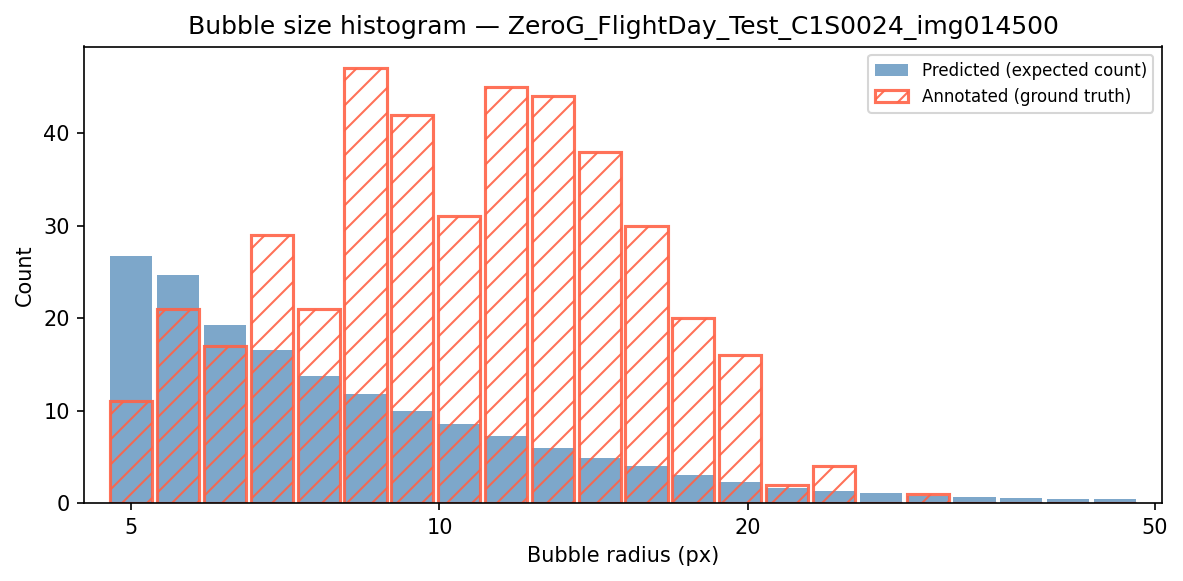
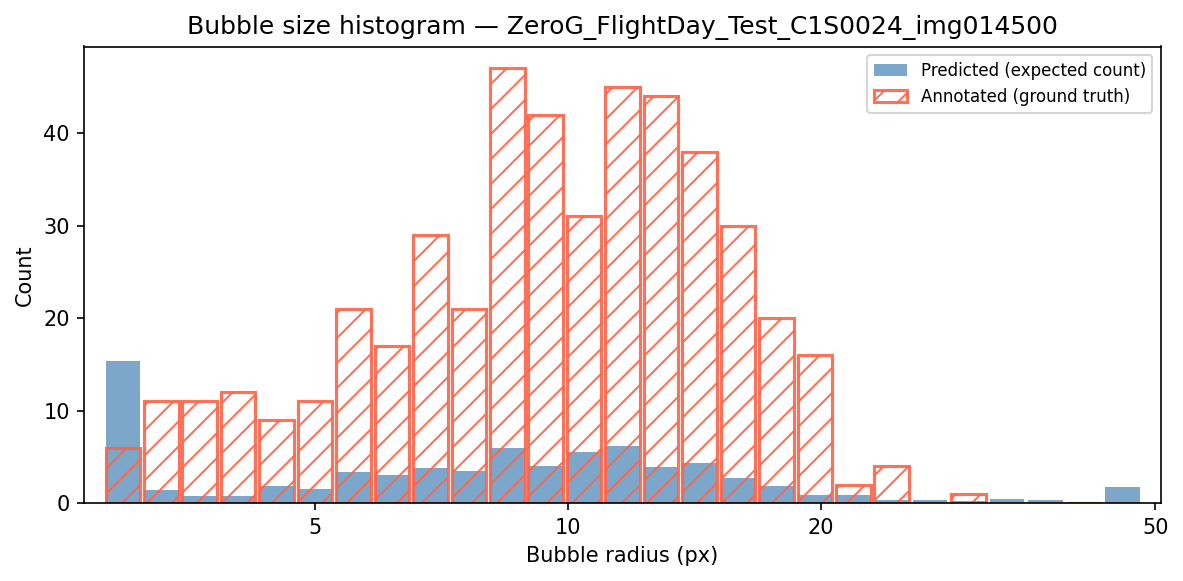
fix: per-level calibration, scale-aware labeling, and template normalization
Replace global ScoreCalibrator with one calibrator per pyramid level.
Label NMS survivors as positive only when they land at the correct
pyramid level for the GT bubble's radius, preventing fine-scale edge
artifacts from stealing GT annotation slots during training.

Fix template normalization: sum-norm collapsed every pixel to ~1/169,
making the averaged template nearly constant. Replace with zero-mean
+ L2-norm to preserve the dark-center / bright-surround contrast structure.

Add per-level NMS cap (nms_max_candidates_per_level=1000) to prevent
fine-scale levels from monopolizing the NMS candidate budget. Optimize
NMS inner loop to scan only remaining candidates (i+1: slice) instead
of all n, halving the work on average.

relL1 on calibration image: 1.024 → 0.950. Training time: ~46s.

diff --git a/bubble_histogram/pipeline.py b/bubble_histogram/pipeline.py
@@ -28,7 +28,8 @@ class BubblePipeline:
     def __init__(self, config: PipelineConfig):
         self.config = config
         self.templates: np.ndarray | None = None        # shape (n_bins, template_size, template_size)
-        self.calibrator: ScoreCalibrator | None = None  # maps NCC score → P(bubble)
+        self.calibrator: ScoreCalibrator | None = None  # maps NCC score → P(bubble); used when local_maxima_calibration=False
+        self.calibrators: dict[int, ScoreCalibrator] | None = None  # per-level calibrators; used when local_maxima_calibration=True
         self._split_info: dict | None = None            # saved for the *_split.json artifact
         self._pos_scores: np.ndarray | None = None      # saved for the *_score_histograms.png artifact
         self._neg_scores: np.ndarray | None = None
@@ -39,28 +40,95 @@ class BubblePipeline:
         self.templates = build_templates(dataset, self.config,
                                          image_paths=dataset.template_images)
 
-        # sample NCC scores from the calibration split (separate from template images)
+        if self.config.local_maxima_calibration:
+            self._train_per_level(dataset)
+        else:
+            self._train_global(dataset)
+
+    def _train_per_level(self, dataset: AnnotatedDataset) -> None:
+        """
+        Per-level calibration with scale-aware positive labeling.
+
+        A survivor is labeled positive only if it is both spatially close to an
+        annotation (dist < bubble.radius) AND at the correct pyramid level for that
+        annotation (argmin |eff_radius - bubble.radius|).  This prevents edge
+        artifacts from fine scales (which score higher than correct-scale center
+        detections) from consuming GT slots in the greedy matcher and being labeled
+        positive.  Each level then has its own prior and calibrator, so level 0
+        (almost zero true positives) gets P(bubble) ≈ 0 while the correct-scale
+        levels get a realistic prior.
+        """
+        level_pos: dict[int, list[float]] = defaultdict(list)
+        level_neg: dict[int, list[float]] = defaultdict(list)
+        n_levels = 0  # determined from ncc_results after first image
+
+        for image_path in dataset.calibration_images:
+            sample = dataset.load_sample(image_path)
+            ncc_results = compute_ncc_maps(sample.image, self.templates, self.config)
+            if not ncc_results:
+                continue
+            n_levels = max(n_levels, len(ncc_results))
+            eff_radii = np.array([er for er, _ in ncc_results])
+            survivors = nms_3d(ncc_results, self.config)
+
+            gt = [(b.cy, b.cx, b.radius) for b in sample.bubbles]
+            # correct pyramid level for each GT bubble
+            gt_levels = [int(np.argmin(np.abs(eff_radii - r))) for _, _, r in gt]
+            matched_gt: set[int] = set()
+
+            for score, level_idx, y, x, _ in survivors:
+                best_i, best_d = -1, float("inf")
+                for i, (cy, cx, r) in enumerate(gt):
+                    if i in matched_gt:
+                        continue
+                    d = math.sqrt((y - cy) ** 2 + (x - cx) ** 2)
+                    # scale-aware: only count as positive at the correct pyramid level
+                    if d < r and level_idx == gt_levels[i] and d < best_d:
+                        best_d, best_i = d, i
+                if best_i >= 0:
+                    matched_gt.add(best_i)
+                    level_pos[level_idx].append(score)
+                else:
+                    level_neg[level_idx].append(score)
+
+        # Flatten for the score-histogram artifact
+        all_pos = np.array([s for ss in level_pos.values() for s in ss], dtype=np.float32)
+        all_neg = np.array([s for ss in level_neg.values() for s in ss], dtype=np.float32)
+        self._pos_scores, self._neg_scores = all_pos, all_neg
+
+        # Fit one calibrator per level.  Use fewer bins than the global calibrator
+        # because per-level positive counts can be very small (O(tens) per level).
+        bins_per_level = max(10, self.config.n_score_bins // 3)
+        self.calibrators = {}
+        for lv in range(n_levels):
+            p = np.array(level_pos.get(lv, []), dtype=np.float32)
+            n = np.array(level_neg.get(lv, []), dtype=np.float32)
+            prior = len(p) / max(len(p) + len(n), 1)
+            cal = ScoreCalibrator(n_bins=bins_per_level)
+            cal.fit(p, n, prior)
+            self.calibrators[lv] = cal
+
+        # Keep a global calibrator fitted for backwards compat (test assertions, score histogram)
+        global_prior = len(all_pos) / max(len(all_pos) + len(all_neg), 1)
+        self.calibrator = ScoreCalibrator(n_bins=self.config.n_score_bins)
+        self.calibrator.fit(all_pos, all_neg, global_prior)
+
+    def _train_global(self, dataset: AnnotatedDataset) -> None:
+        """Global calibration (local_maxima_calibration=False): centroid-based positives + random pixel negatives."""
         pos_scores, neg_scores = sample_scores(dataset, self.templates, self.config,
                                                image_paths=dataset.calibration_images)
         self._pos_scores = pos_scores
         self._neg_scores = neg_scores
 
-        # estimate the prior: P(bubble) at a candidate location
-        if self.config.local_maxima_calibration:
-            # sample_scores labeled every NMS survivor pos or neg;
-            # prior = P(bubble | at NMS survivor) = n_pos / (n_pos + n_neg)
-            # No extra NCC passes needed — derived directly from training counts.
-            prior = len(pos_scores) / max(len(pos_scores) + len(neg_scores), 1)
-        else:
-            # default: prior = n_bubbles / n_pixels (fraction of pixel locations that are bubbles)
-            total_bubbles = sum(len(dataset.load_sample(p).bubbles)
-                                for p in dataset.calibration_images)
-            total_pixels = sum(int(np.prod(dataset.load_sample(p).image.shape))
-                               for p in dataset.calibration_images)
-            prior = total_bubbles / max(total_pixels, 1)
+        total_bubbles = sum(len(dataset.load_sample(p).bubbles)
+                            for p in dataset.calibration_images)
+        total_pixels = sum(int(np.prod(dataset.load_sample(p).image.shape))
+                           for p in dataset.calibration_images)
+        prior = total_bubbles / max(total_pixels, 1)
 
         self.calibrator = ScoreCalibrator(n_bins=self.config.n_score_bins)
         self.calibrator.fit(pos_scores, neg_scores, prior)
+        self.calibrators = None
 
     def predict(self, image: np.ndarray, ncc_results: list | None = None) -> dict[str, list[float]]:
         """
@@ -81,7 +149,7 @@ class BubblePipeline:
         radius_px = []
         expected_counts = []
 
-        from bubble_histogram.calibration import nms_3d, _local_maxima
+        from bubble_histogram.calibration import _local_maxima
         min_d = 2   # minimum pixel distance between local maxima; small because NCC response is smooth
 
         use_lm = self.config.predict_local_maxima or self.config.local_maxima_calibration
@@ -92,8 +160,13 @@ class BubblePipeline:
             # This prevents the same bubble from being counted at multiple scale levels.
             survivors = nms_3d(ncc_results, self.config)
             level_probs: dict[int, float] = {i: 0.0 for i in range(len(ncc_results))}
+            use_per_level = self.calibrators is not None
             for score, level_idx, _y, _x, _r in survivors:
-                prob = float(self.calibrator.predict(np.array([score], dtype=np.float32))[0])
+                if use_per_level:
+                    cal = self.calibrators.get(level_idx)
+                    prob = float(cal.predict(np.array([score], dtype=np.float32))[0]) if cal is not None else 0.0
+                else:
+                    prob = float(self.calibrator.predict(np.array([score], dtype=np.float32))[0])
                 level_probs[level_idx] += prob
             for i, (eff_radius, _) in enumerate(ncc_results):
                 expected_counts.append(level_probs[i])
@@ -120,9 +193,9 @@ class BubblePipeline:
     ) -> None:
         path = Path(path)
         with open(path, "wb") as f:
-            # only the three objects needed to run predict() are pickled; diagnostic data is separate
             pickle.dump({"config": self.config, "templates": self.templates,
-                         "calibrator": self.calibrator}, f)
+                         "calibrator": self.calibrator,
+                         "calibrators": self.calibrators}, f)
 
         # Always save templates PNG
         self._save_templates_png(path.with_name(path.stem + "_templates.png"))
@@ -376,4 +449,5 @@ class BubblePipeline:
         pipeline = cls(data["config"])      # reconstruct with the config that was used during training
         pipeline.templates = data["templates"]
         pipeline.calibrator = data["calibrator"]
+        pipeline.calibrators = data.get("calibrators")  # None for pipelines saved before per-level calibration
         return pipeline

diff --git a/bubble_histogram/calibration.py b/bubble_histogram/calibration.py
@@ -177,10 +177,23 @@ def nms_3d(
     if not chunks:
         return []
 
+    # Per-level cap: keep only the top-K peaks within each level before pooling.
+    # Prevents fine-scale levels (which generate many high-scoring edge artifacts)
+    # from monopolising the global nms_max_candidates budget and crowding out
+    # legitimate coarse-scale detections.
+    per_k = getattr(config, "nms_max_candidates_per_level", 0)
+    if per_k > 0:
+        capped: list[np.ndarray] = []
+        for chunk in chunks:
+            if len(chunk) > per_k:
+                top_idx = np.argpartition(chunk[:, 0], -per_k)[-per_k:]
+                capped.append(chunk[top_idx])
+            else:
+                capped.append(chunk)
+        chunks = capped
+
     cands_arr = np.vstack(chunks)                        # (total_candidates, 5)
-    # Sort by score descending and apply top-K cap.
-    # All true bubbles score highly so top-K never drops true positives;
-    # it bounds NMS runtime to O(K²) regardless of image content.
+    # Sort by score descending and apply global top-K cap.
     order = np.argsort(cands_arr[:, 0])[::-1]
     max_k = getattr(config, "nms_max_candidates", 10000)
     order = order[:max_k]
@@ -205,11 +218,12 @@ def nms_3d(
             continue
         kept.append((sc[i], lv[i], cy[i], cx[i], cr[i]))
 
-        # Vectorized IoU against all later unsuppressed candidates
-        rest = np.where(~suppressed)[0]
-        rest = rest[rest > i]
-        if len(rest) == 0:
+        # Vectorized IoU against all later unsuppressed candidates.
+        # Only scan suppressed[i+1:] (half the work on average vs scanning all n).
+        rest_offset = np.nonzero(~suppressed[i + 1:])[0]
+        if len(rest_offset) == 0:
             break
+        rest = rest_offset + i + 1
 
         inter_h = np.maximum(0.0, np.minimum(y1[i], y1[rest]) - np.maximum(y0[i], y0[rest]))
         inter_w = np.maximum(0.0, np.minimum(x1[i], x1[rest]) - np.maximum(x0[i], x0[rest]))

diff --git a/bubble_histogram/template.py b/bubble_histogram/template.py
@@ -67,11 +67,15 @@ def build_templates(
             interp = cv2.INTER_AREA if patch.shape[0] >= ts else cv2.INTER_LINEAR
             resized = cv2.resize(patch, (ts, ts), interpolation=interp).astype(np.float32)
 
-            # normalise each patch to sum=1 before averaging so that bright and dark images
-            # contribute equally regardless of their absolute intensity level
-            s = resized.sum()
-            if s > 0:
-                resized /= s
+            # Zero-mean + L2-normalise each patch before averaging.
+            # This preserves the spatial contrast structure (dark bubble interior vs
+            # bright surround) so the averaged template retains discriminative features.
+            # Sum-normalisation was used previously but collapses every patch to ~1/169
+            # per pixel, washing out the dark-disc pattern and making the template flat.
+            resized -= resized.mean()
+            norm_p = np.linalg.norm(resized)
+            if norm_p > 0:
+                resized /= norm_p
 
             bin_patches[bin_idx].append(resized)
 

diff --git a/bubble_histogram/config.py b/bubble_histogram/config.py
@@ -15,4 +15,5 @@ class PipelineConfig:
     local_maxima_calibration: bool = True  # if True, train calibrator on local-maxima scores instead of random pixel scores
     predict_local_maxima: bool = True       # if True, sum P(bubble) only at local maxima; if False, sum over every pixel (overcounts)
     nms_iou_threshold: float = 0.5         # IoU threshold for cross-scale NMS in predict(); 0.0 disables cross-scale suppression
-    nms_max_candidates: int = 10000       # cap on candidates fed to NMS per image; top-K by NCC score; keeps all bubbles while bounding runtime
+    nms_max_candidates: int = 50000       # global cap after per-level filtering; set large so the per-level cap dominates
+    nms_max_candidates_per_level: int = 1000  # per-level cap: includes ~top-30% of level LMs so GT bubble peaks survive; limits NMS input to ~27K
